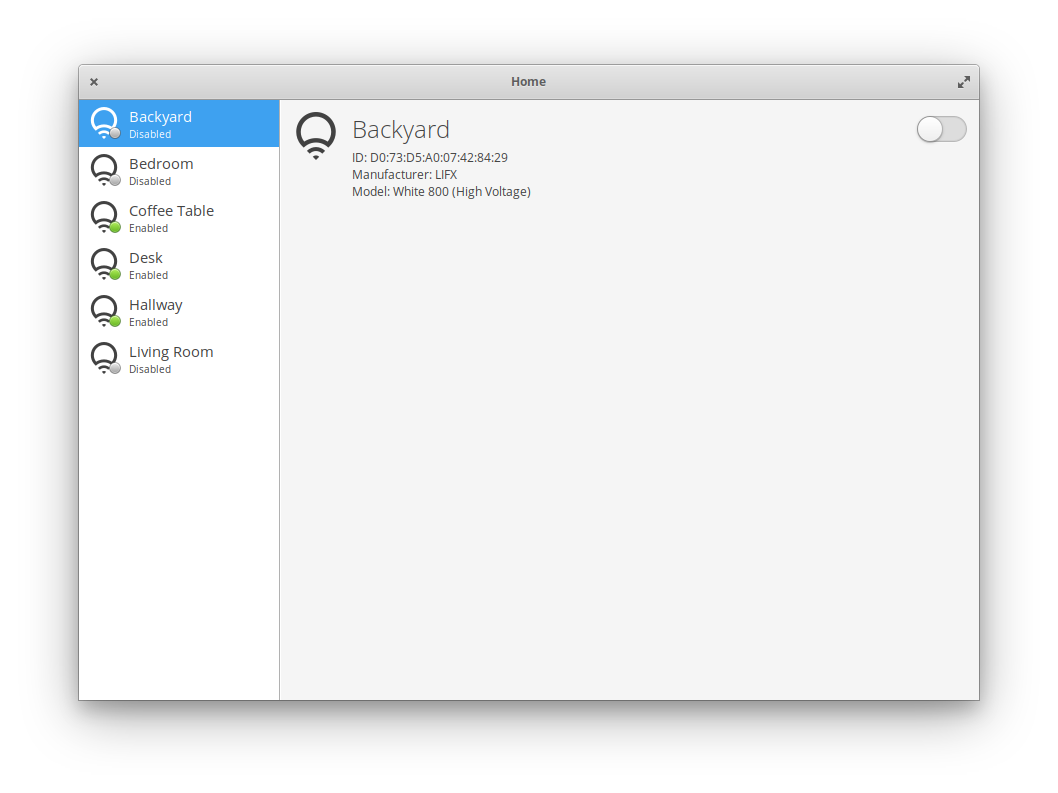
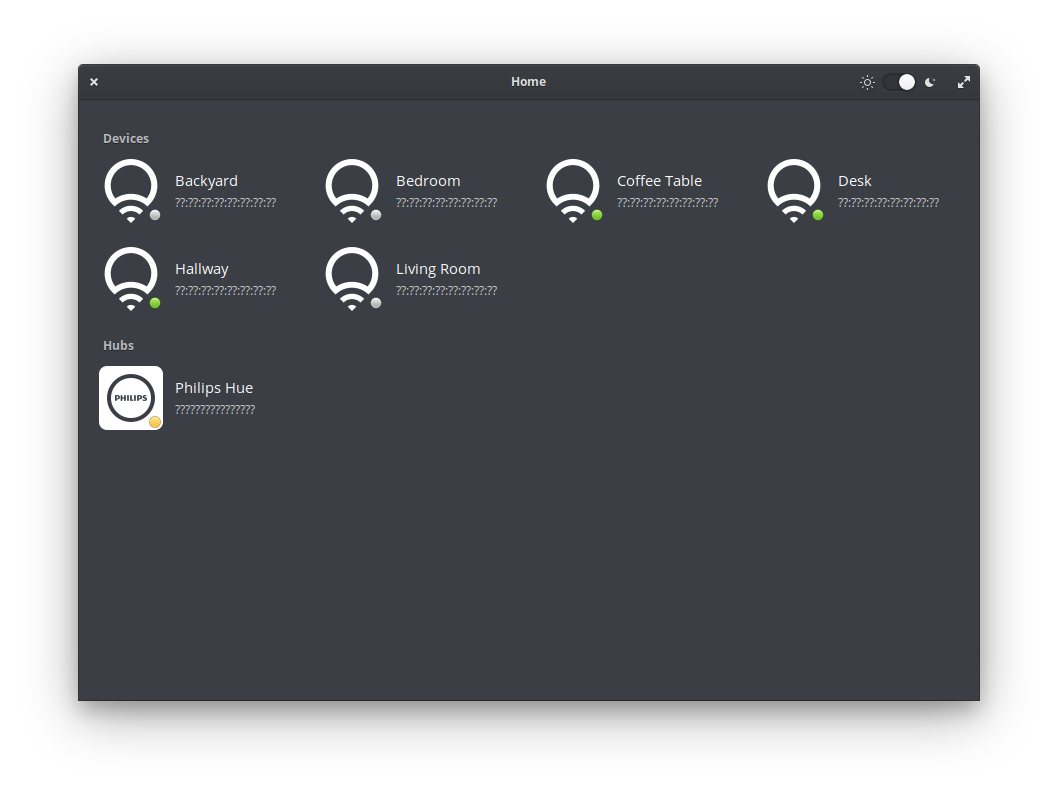
Release version 0.3.0

diff --git a/README.md b/README.md
@@ -39,9 +39,19 @@
       <td>
         <img src="data/screenshots/004.png">
       </td>
+      <td>
+        <img src="data/screenshots/005.png">
+      </td>
     </tr>
   </table>
 </p>
+
+## Supported devices
+
+<ul>
+  <li>LIFX</li>
+  <li>Philips Hue</li>
+</ul>
 
 ## Installation
 
